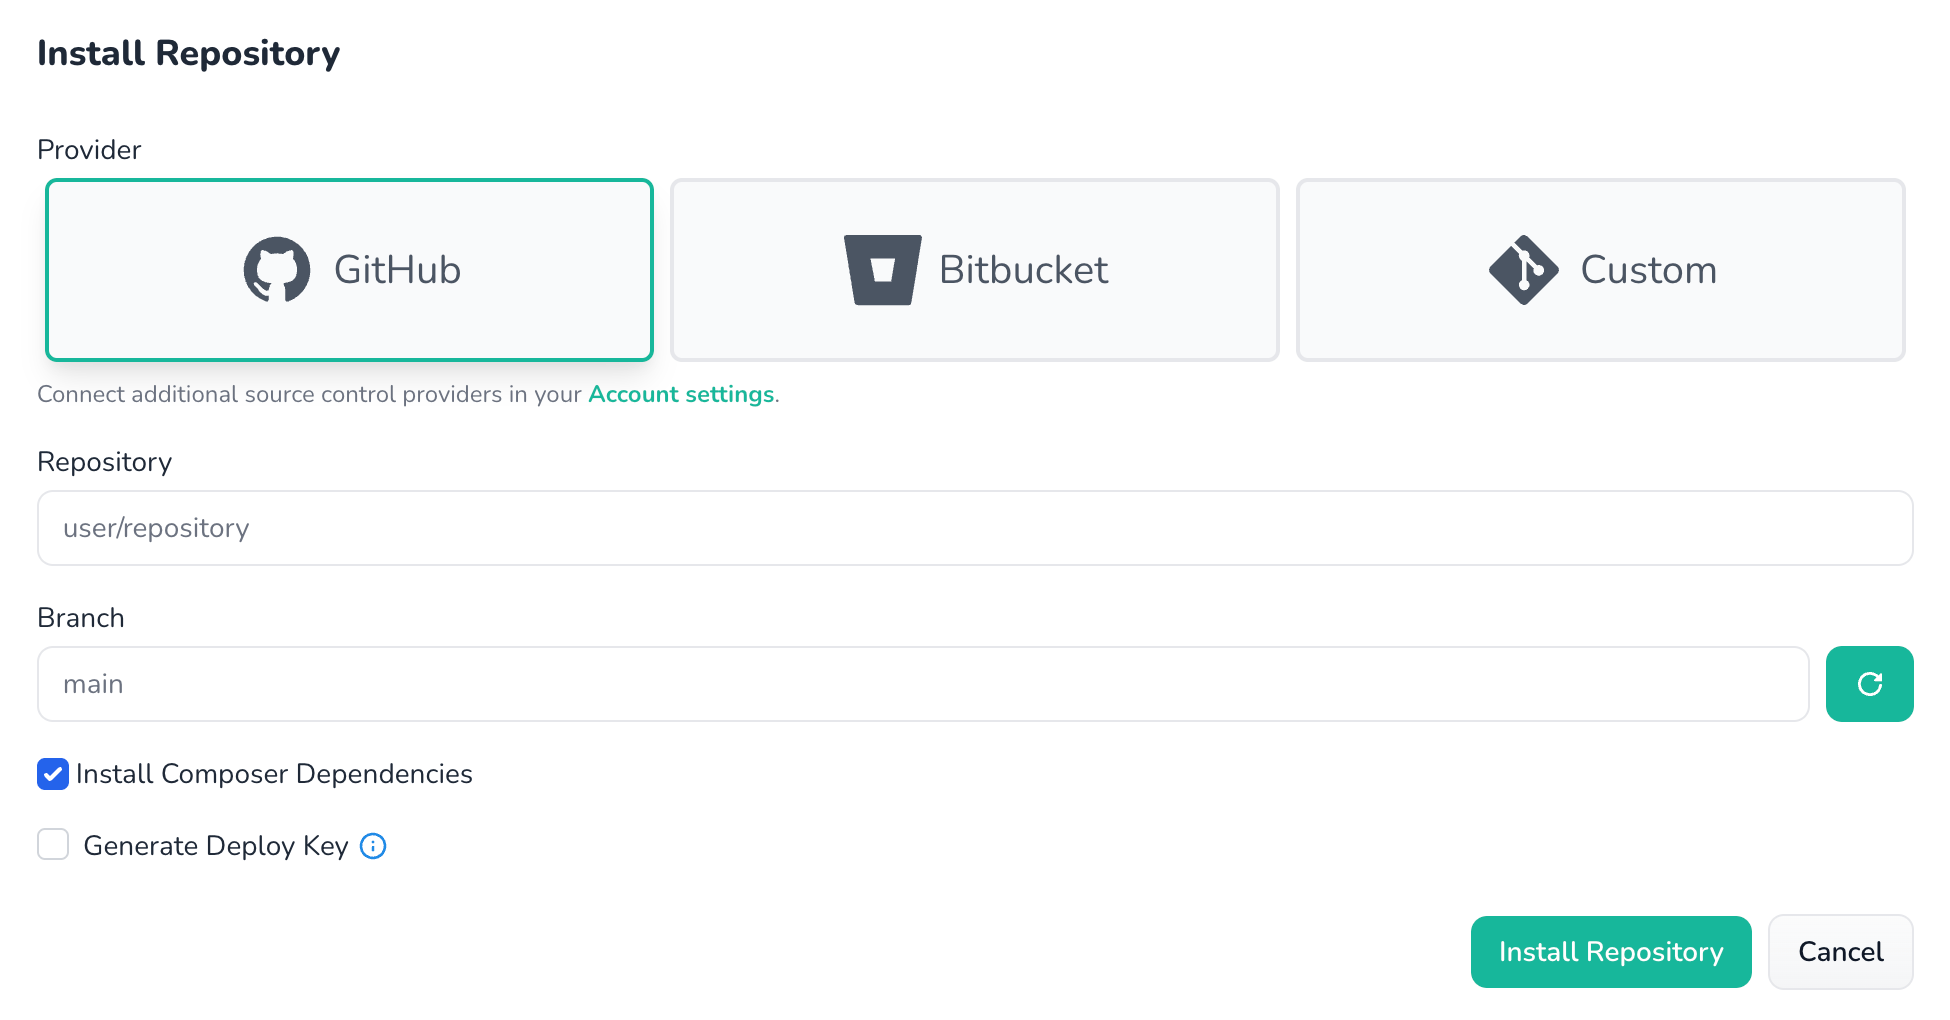
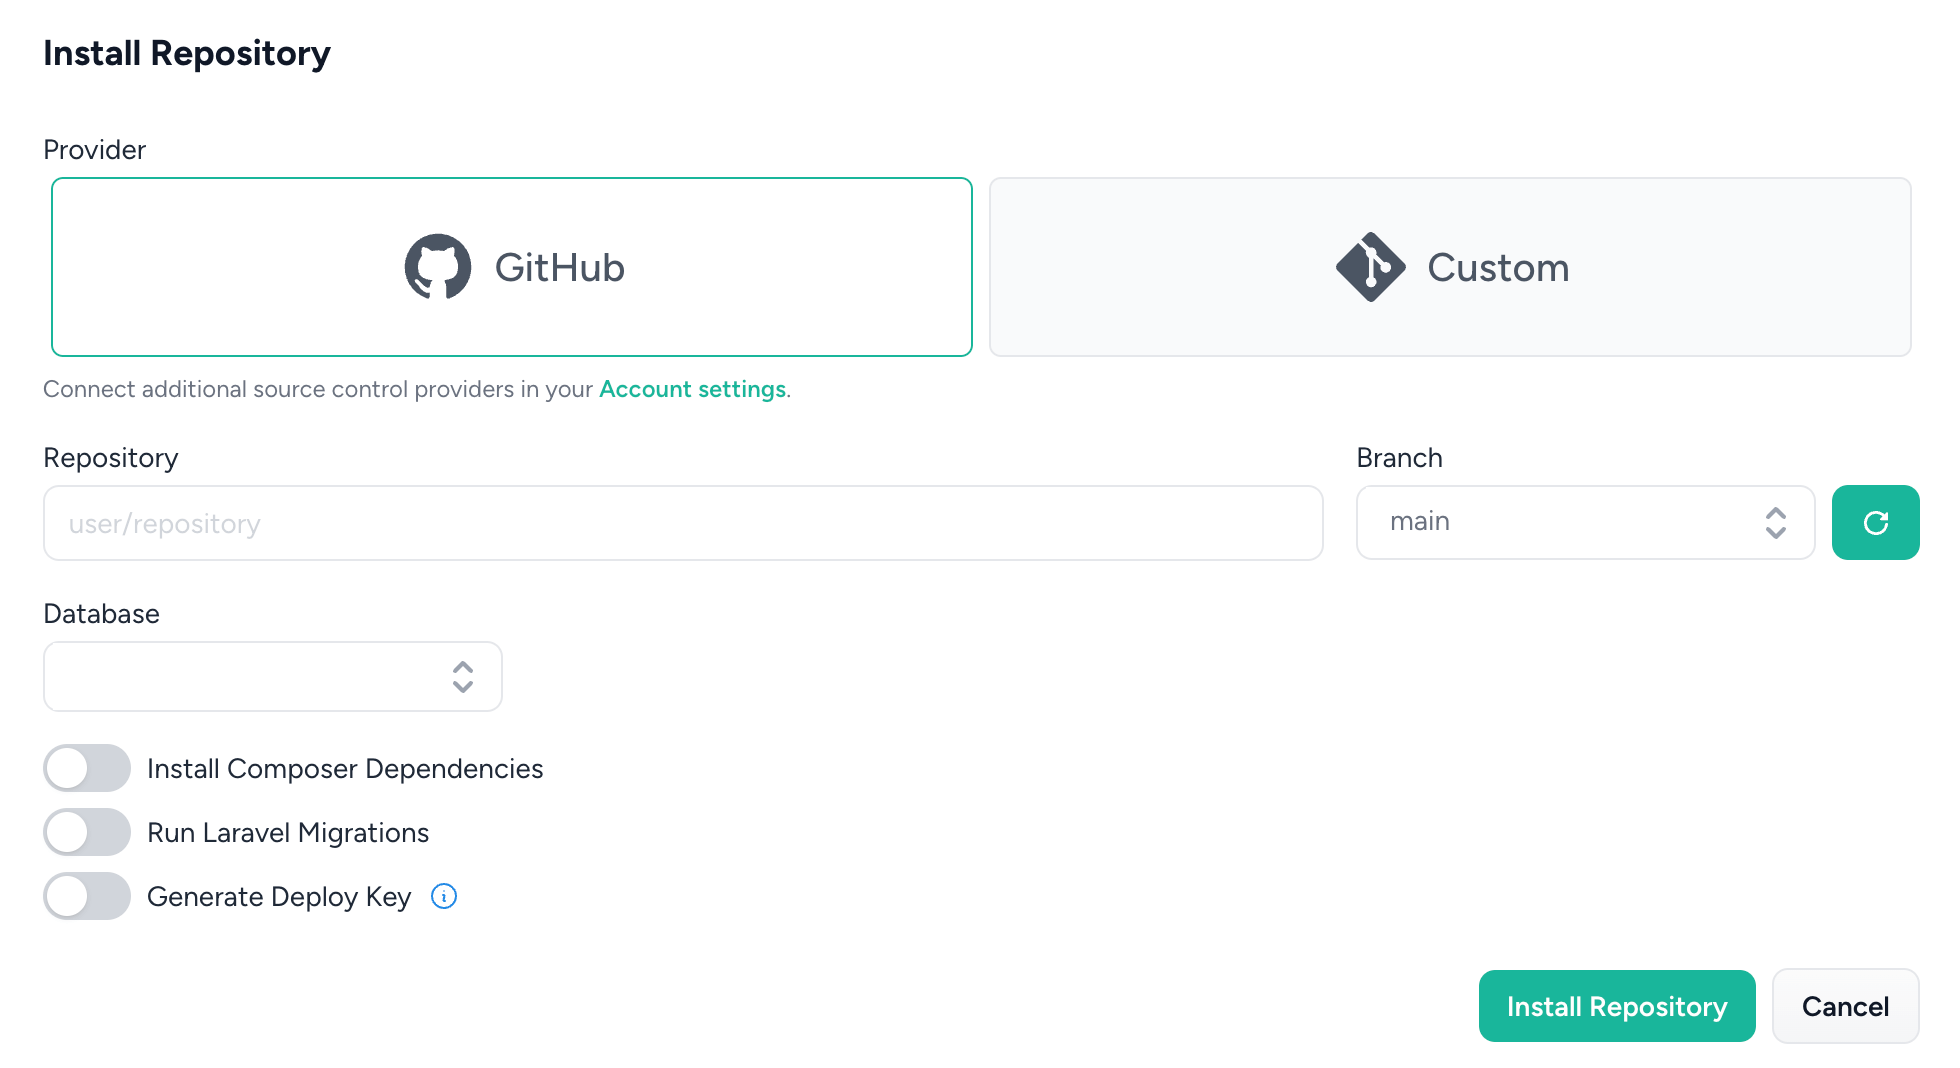
fix: update forge docs to disable toggles

diff --git a/content/collections/docs/laravel-forge.md b/content/collections/docs/laravel-forge.md
@@ -43,6 +43,10 @@ Finally, setup your deployment by pointing to your site to your source control r
     <img src="/img/deployment-forge-install-repo.png" alt="Install repo example">
 </figure>
 
+:::best-practice
+We recommend toggling off "Install Composer Dependencies", and "Run Laravel Migrations", and running them manually after installing the repository.
+:::
+
 After doing this, you'll be able to customize the deployment script if needed. You can also enable "**quick deploy**", which will automatically trigger deployments when you push changes to your chosen branch.
 
 <figure>
